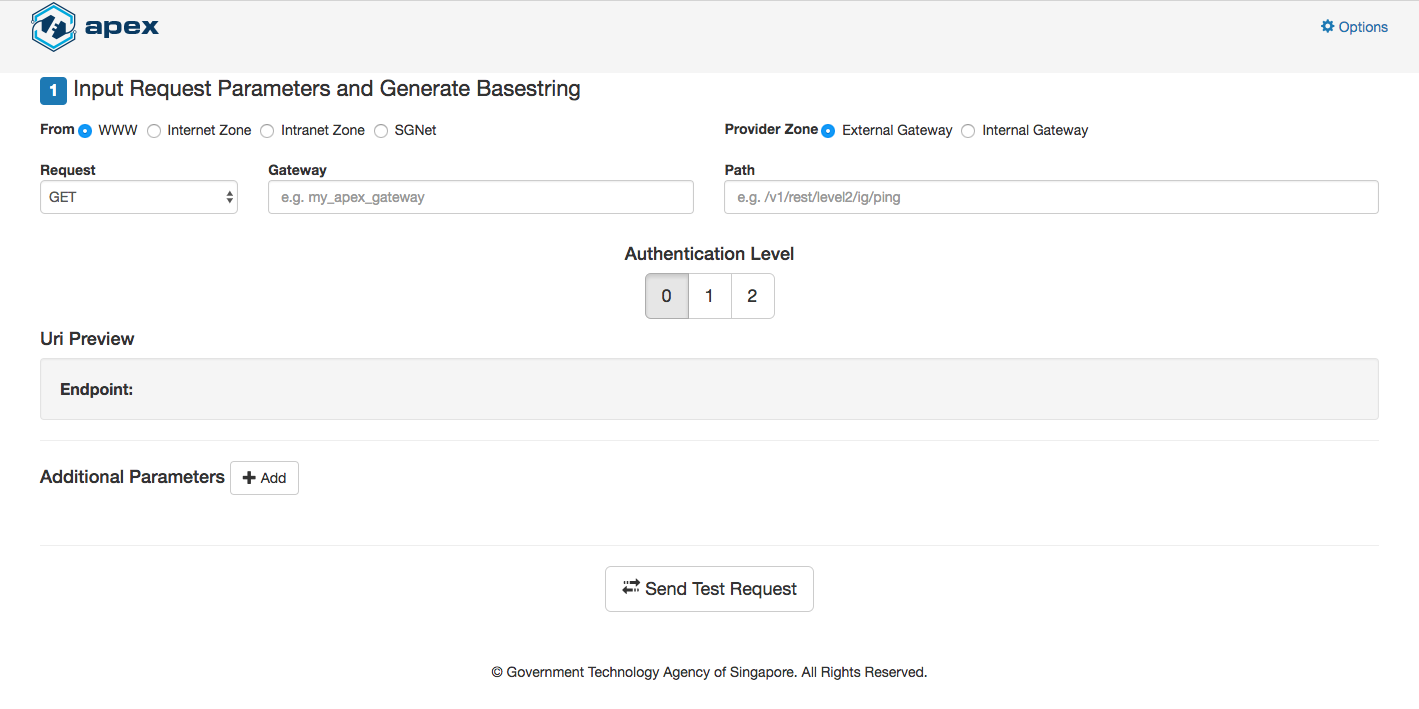
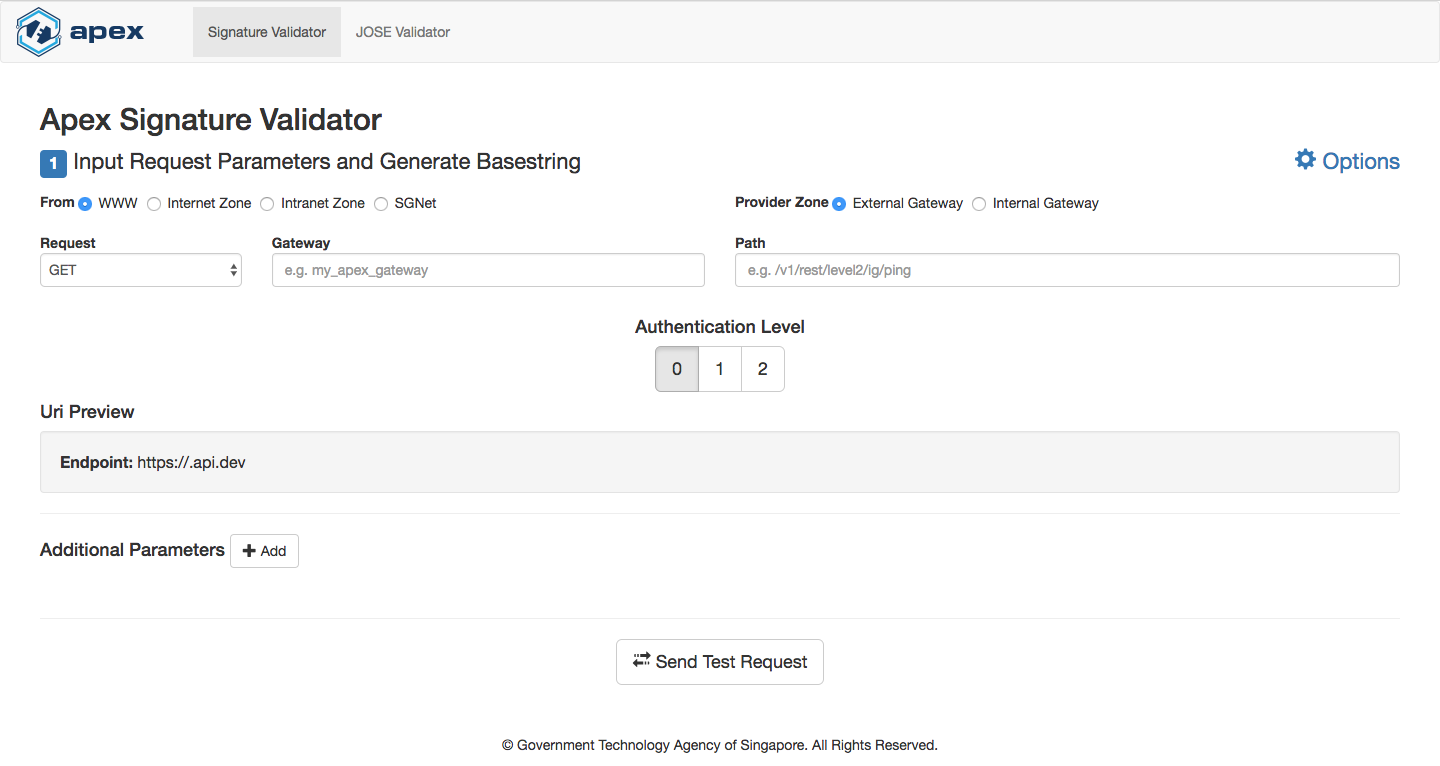
Updated readme and screenshots.

diff --git a/README.md b/README.md
@@ -1,4 +1,4 @@
-# APEX Signature Validator
+# APEX Signature and JOSE Validator
 
 [![Codacy Badge](https://api.codacy.com/project/badge/Grade/a20b2416cc2547e9ab6b3ef5669d82ec)](https://app.codacy.com/app/robincher/apex-signature-validator?utm_source=github.com&utm_medium=referral&utm_content=GovTechSG/apex-signature-validator&utm_campaign=badger)
 
@@ -27,7 +27,7 @@ You can find out more about Apex signature generation from our reference Node.js
     + [service](#service)
   * [JSRSASIGN](#jsrsasign)
   * [Sending test requests with the signature validator](#sending-test-requests-with-the-signature-validator)
-  * [JOSE (Javascript Object Signing and Encryption)](#jose)
+- [JOSE (Javascript Object Signing and Encryption) Validator](#jose)
 
 ## Running Apex Signature Validator
 Download and extract the latest [release](https://github.com/GovTechSG/apex-signature-validator/releases) and run `index.html` directly in your browser.
@@ -196,21 +196,18 @@ These scripts would automatically open the signature validator in a new Chrome w
 
 ## JOSE 
 
-JOSE (Javascript Object Signing and Encryption)
-, is an apporach on signing and encryption JSON content. If your API response are packaged in any of the JOSE standard, you can use this client to further verify or decrpyt the corresponding API response.
-
-On the main page, click on *Verify JOSE* button to open up the JOSE menu.
+JOSE (Javascript Object Signing and Encryption) is an approach on signing and encrypting JSON content. If your API response are packaged in any of the JOSE standards, you can use this client to further verify or decrpyt the corresponding API response.
 
 ### Verifying JWS
-![jose_jws.png](https://github.com/GovTechSG/apex-signature-validator/blob/master/assets/jose_jws.png)
+![jose_jws.png](https://github.com/GovTechSG/apex-signature-validator/blob/master/assets/jose_jws_verified.png)
 
-- Input : API Response from the Gateway. As of now, we are only supporting it as a JSON format.
-- Public Certificate/Key : Public certificate (string) contents that will be used to verified against the JSON Web Signature. 
-- Output : Data output upon successful verification
+- Input : JWS API Response from the Gateway. As of now, we are only supporting it in JSON format.
+- Public Certificate/Key : Public certificate that will be used to verify the JSON Web Signature. 
+- Output : Data output upon successful verification.
 
 ### Decrypting JWE
-![jose_jwe.png](https://github.com/GovTechSG/apex-signature-validator/blob/master/assets/jose_jwe.png)
+![jose_jwe.png](https://github.com/GovTechSG/apex-signature-validator/blob/master/assets/jose_jwe_verified.png)
 
-- Input : API Response from the Gateway. Same as JWS
-- Private Key : Public Key (string) contents that will be used to decrypt the JWE
-- Output : Data output upon successful decryption
+- Input : JWE API Response from the Gateway in JSON format.
+- Private Key : Private key that will be used to decrypt the JWE string.
+- Output : Data output upon successful decryption.
